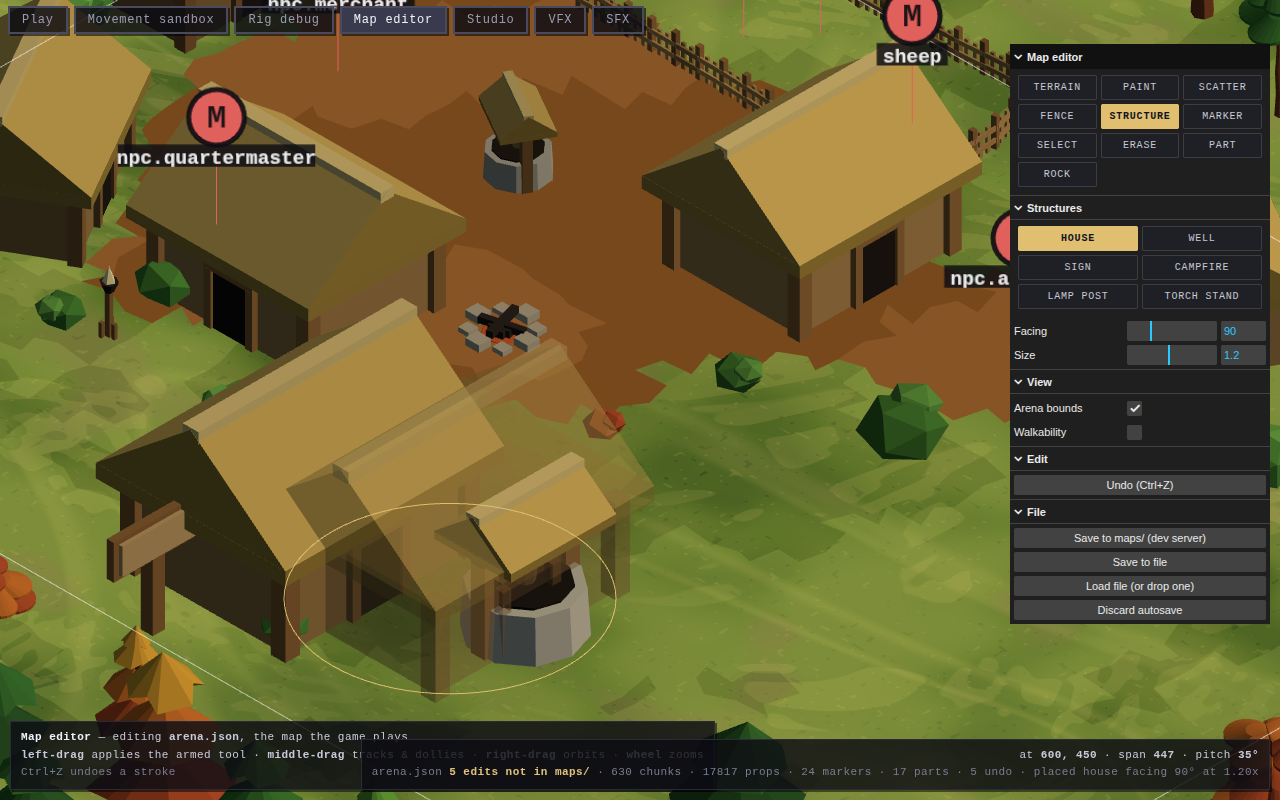
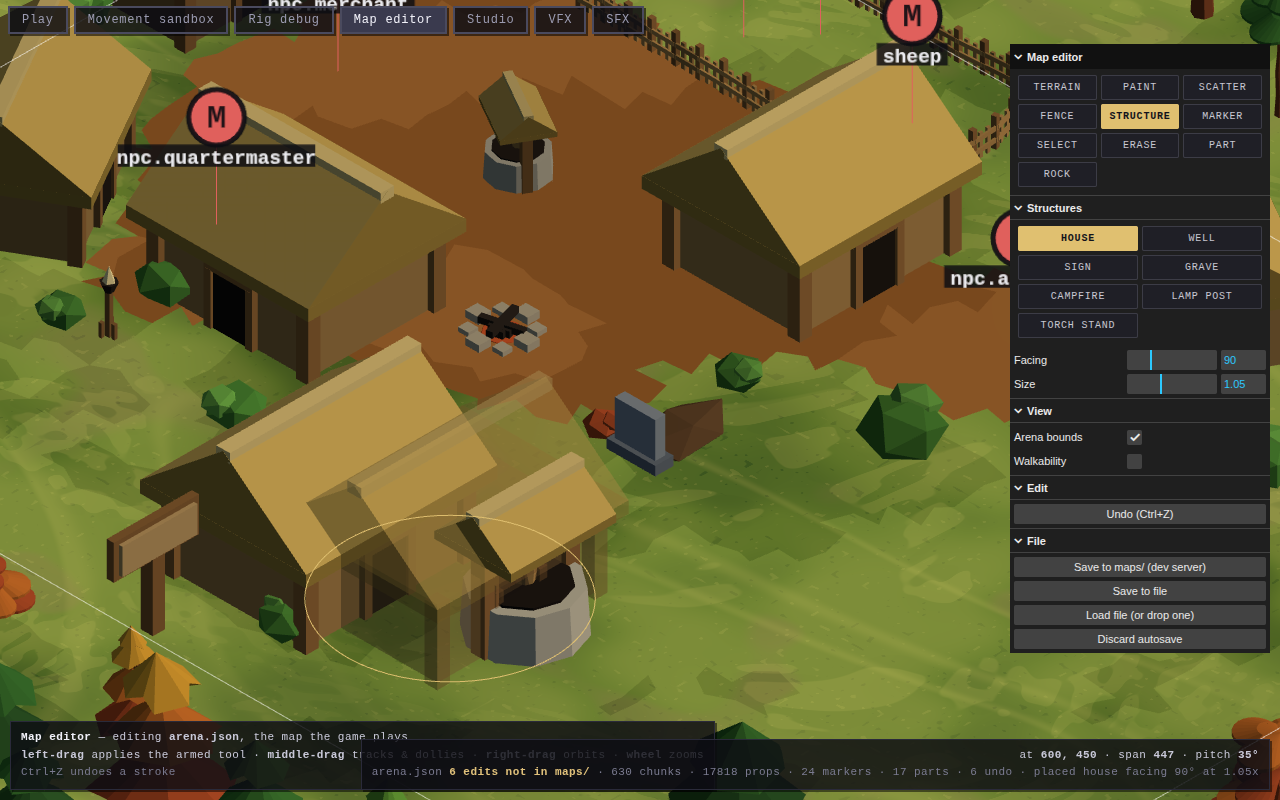
Photograph and probe the grave
The preview earned its place immediately: the mound was laid exactly against
the plinth, and rockGeometry knocks every vertex inward by up to half its
roughness, so it came out several units short and the grave read as two props
that happen to be near each other. Invisible in Node -- both parts were where
the arithmetic said -- and obvious in one picture. The overlap is the shrinkage
now, and the test that pins it fails when it is removed.

The probe is the half no headless test can reach, and the grave is worth a step
in it for the opposite reason to the sign's: it has nothing of its own, so
every part of being placeable is derived, and the whole feature is a button
nobody wrote and geometry nobody dispatched to. Both fail silently.

It also found its own instrument lying. `placed()` matched a hand-written
house|well|sign, so every grave check printed "said nothing" as its evidence --
which is exactly what a grave that had not been placed would print. A detail
line that reads the same whether the thing worked or not is worse than none,
because it is read as evidence. It derives from PLACED_KINDS now.

Claude-Session: https://claude.ai/code/session_017aM3sCe1q8LFaYau8D2HYu

diff --git a/scripts/probe-structures.ts b/scripts/probe-structures.ts
@@ -31,7 +31,7 @@ import { existsSync, mkdirSync, readFileSync } from 'node:fs';
 import { dirname, join } from 'node:path';
 import { fileURLToPath } from 'node:url';
 import { chromium, type Page } from 'playwright';
-import { STRUCTURE_KINDS } from '../src/terrain/vegetation.js';
+import { PLACED_KINDS, STRUCTURE_KINDS } from '../src/terrain/vegetation.js';
 import { STRUCTURE_SCALE_STEP } from '../src/render/iso3d/editor/structure.js';
 
 const root = join(dirname(fileURLToPath(import.meta.url)), '..');
@@ -274,9 +274,23 @@ async function setText(page: Page, folder: string, label: string, value: string)
   await page.waitForTimeout(250);
 }
 
+/**
+ * Which kinds the status line can be reporting a placement of.
+ *
+ * **Derived, never typed.** It was a hand-written `house|well|sign`, and spec
+ * 263's grave was the fourth kind and the first one to show what that costs: a
+ * grave really was placed, the assertion above really did pass, and every check
+ * about it printed `said nothing` as its evidence -- which is exactly what a
+ * grave that was *not* placed would have printed. A detail line that reads the
+ * same whether the thing worked or not is worse than none, because it is read as
+ * evidence. `PLACED_KINDS` rather than `STRUCTURE_KINDS`, since a fixture prints
+ * through this same line.
+ */
+const PLACED_PATTERN = new RegExp(`placed (?:${PLACED_KINDS.join('|')})[^]*$`);
+
 /** The last thing the editor's status line said it did. */
 async function placed(page: Page): Promise<string> {
-  return /placed (?:house|well|sign)[^]*$/.exec(await readout(page))?.[0]?.trim() ?? 'said nothing';
+  return PLACED_PATTERN.exec(await readout(page))?.[0]?.trim() ?? 'said nothing';
 }
 
 /** Whatever the status line is saying, which is the tail after the undo count. */
@@ -495,6 +509,25 @@ async function main(): Promise<void> {
       (await readout(page)).includes(SIGN_MESSAGE),
       await placed(page),
     );
+    // --- the grave (spec 263) ----------------------------------------------
+    //
+    // The kind with nothing of its own -- no message, no brightness, no reach --
+    // which is exactly why it is worth a step here: everything that makes it
+    // placeable is *derived* (`STRUCTURE_KINDS` composes `PLACED_KINDS`, which
+    // the panel's strip is built from), so the whole feature is a button nobody
+    // wrote and geometry nobody dispatched to. Both of those fail silently.
+    await page.getByRole('button', { name: 'grave', exact: true }).click();
+    await page.waitForTimeout(400);
+    check(
+      'arming a grave shows no message row, having nothing to say',
+      (await panelRow(page, 'Structures', 'Message'))?.shown !== true,
+      'Message hidden',
+    );
+    await setNumber(page, 'Structures', 'Facing', 180);
+    check('a grave places', await clickGround(page, 640, 440), await placed(page));
+    check('and says so, at the facing it was turned to', /placed grave facing 180/.test(await readout(page)), await placed(page));
+    await setNumber(page, 'Structures', 'Facing', 90);
+
     await page.getByRole('button', { name: 'well', exact: true }).click();
     await page.waitForTimeout(300);
     check(
@@ -609,6 +642,21 @@ async function main(): Promise<void> {
       'and nothing else in the map gained one',
       after.every((p) => p.species === 'sign' || p.text === undefined),
       after.filter((p) => p.species !== 'sign' && p.text !== undefined).map((p) => p.species).join(', ') || 'none',
+    );
+
+    // The grave: the file is where "a kind that is only a row in a list is
+    // really placeable" is answered (spec 263). Nothing about it is
+    // special-cased anywhere, so the way it fails is by not being there at all.
+    const graves = after.filter((p) => p.species === 'grave');
+    check(
+      'the saved map has the one grave this probe put down',
+      graves.length === 1,
+      `${graves.length} graves`,
+    );
+    check(
+      'and it was saved at the facing it was placed at',
+      Math.abs((graves[0]?.rotation ?? 0) - Math.PI) < 0.01,
+      `rotation = ${(graves[0]?.rotation ?? 0).toFixed(3)}`,
     );
 
     const turned = houses.filter((h) => Math.abs((h.rotation ?? 0) - Math.PI / 2) < 0.01);

diff --git a/scripts/preview-structures.ts b/scripts/preview-structures.ts
@@ -236,6 +236,25 @@ const signpost = (x: number, z: number, yawDeg: number, scale = 1): Prop => ({
 });
 
 /**
+ * A grave (spec 263).
+ *
+ * The one prop here whose whole risk is *scale*, in the opposite direction to
+ * the sign's: it has to be unmistakably shorter than a body and still be
+ * something you can see from the game's own bearing. So every shot of it carries
+ * a body block, and the row ends with a plot of several -- because a graveyard
+ * is the arrangement this prop exists for, and four markers in a row is where a
+ * mound that is too round or a stone that is too wide stops being arguable.
+ */
+const grave = (x: number, z: number, yawDeg: number, scale = 1): Prop => ({
+  kind: 'grave',
+  x,
+  y: z,
+  scale,
+  rotation: (yawDeg * Math.PI) / 180,
+  tint: (((x * 3 + z * 17) % 200) / 100) - 1,
+});
+
+/**
  * How far the huts stand from the well, in the village shots.
  *
  * Two and a half footprints, which leaves a square between them rather than a
@@ -259,6 +278,25 @@ const SHOTS: readonly Shot[] = [
   { label: 'sign facing 0', props: [signpost(0, 0, 0)], forward: VIEW_DIR, fit: 240 },
   { label: 'sign facing 90', props: [signpost(0, 0, 90)], forward: VIEW_DIR, fit: 240 },
   { label: 'sign facing 180', props: [signpost(0, 0, 180)], forward: VIEW_DIR, fit: 240 },
+
+  // A grave, beside a body and then in a row of them. Scale is the whole risk:
+  // this is the only prop in the list that is meant to be *shorter* than the
+  // person looking at it, so a block for comparison is not optional here.
+  { label: 'grave', props: [grave(0, 0, 0)], forward: VIEW_DIR, fit: 220, body: [70, 10] },
+  { label: 'grave, low', props: [grave(0, 0, 0)], forward: LOW_DIR, fit: 220, body: [70, 10] },
+  {
+    label: 'graveyard',
+    props: [
+      grave(-90, -30, 0),
+      grave(0, -20, 0, 1.15),
+      grave(90, -34, 0, 0.85),
+      grave(-45, 120, 0),
+      grave(55, 128, 0, 1.05),
+    ],
+    forward: VIEW_DIR,
+    fit: 470,
+    body: [-130, 90],
+  },
 
   { label: 'facing 0', props: [hut(0, 0, 0)], forward: VIEW_DIR, fit: 380 },
   { label: 'facing 90', props: [hut(0, 0, 90)], forward: VIEW_DIR, fit: 380 },

diff --git a/CLAUDE.md b/CLAUDE.md
@@ -86,8 +86,8 @@ change a game outcome.
 | `npx tsx scripts/probe-editor-ground.ts` | Whether the editor's ground window really meshes and evicts, in a browser (spec 212) |
 | `npx tsx scripts/probe-editor-props.ts` | Whether the editor's deferred prop field really puts the trees back (spec 211) |
 | `npx tsx scripts/bench-editor.ts` | What *opening the map editor* costs, stage by stage, across world sizes (spec 211). `bench-map.ts` measures the server; this measures the one caller that still wants the mesh |
-| `npx tsx scripts/preview-structures.ts` | Photograph the village props -- hut, well, and four of them round a square -- with a body-sized block for scale (spec 224) |
-| `npm run build && npx tsx scripts/probe-structures.ts` | Place a hut, a well and a sign in the real editor and read them back out of the saved file (specs 224, 260). The sign is the one placed kind with a field of its own, so it is the one whose panel row can be shown for the wrong kind or wired to nothing -- and neither failure is visible in a screenshot, because a board placed with an empty message looks exactly like one placed with the right message |
+| `npx tsx scripts/preview-structures.ts` | Photograph the village props -- hut, well, and four of them round a square -- with a body-sized block for scale (spec 224), plus a grave and a row of them (spec 263). The grave is the one prop here whose risk runs *opposite* to the sign's: it has to be unmistakably shorter than the person looking at it and still read from the game's own bearing, so the block it is drawn beside is the measurement rather than a courtesy |
+| `npm run build && npx tsx scripts/probe-structures.ts` | Place a hut, a well, a sign and a grave in the real editor and read them back out of the saved file (specs 224, 260, 263). The sign is the one placed kind with a field of its own, so it is the one whose panel row can be shown for the wrong kind or wired to nothing -- and neither failure is visible in a screenshot, because a board placed with an empty message looks exactly like one placed with the right message. The grave is the opposite case and earns a step for it: it has **nothing** of its own, so every part of being placeable is derived, and the whole feature is a button nobody wrote and geometry nobody dispatched to -- both silent. It is also why `placed()` derives its pattern from `PLACED_KINDS` instead of listing the kinds: written by hand it printed `said nothing` for a grave that really had been placed, which is exactly what one that had **not** been placed prints |
 | `npm run build && npx tsx scripts/probe-sign.ts` | Whether a sign on the map is marked, walked to, read and closed in the shipped page (spec 260). **It puts the sign there itself**, backing up `maps/arena/` and restoring it -- there is none on the shipped map, and a probe that needed somebody to have placed one first is a probe nobody runs. Written before the game server starts, because with `?server=` the client's terrain comes off the wire, so what the page draws is whatever that process read from disk. The sign is found with the cursor (`data-crosshair` reading `sign` is the game's own answer to "that is something you can read"), and the **walk is measured** rather than assumed: `SIGN_READ_RADIUS` is under a hundred units, so a run that opened the bubble without moving has not seen the order at all and would go on passing after it was removed |
 | `npx tsx scripts/preview-fixtures.ts` | Photograph the three light fixtures **and what they light** (spec 250). The rasteriser has three's own `getDistanceAttenuation` in it, so the pool on the ground is the one the game throws -- and it prints the number a picture is bad at: the ground is not facing the light, so what a designer sets is scaled by the grazing angle, and the three read out to 41-47% of their reach at night against 29-30% by day |
 | `npx tsx scripts/probe-world-lights.ts` | Whether the fixtures on the shipped map are actually lit in the Play tab (spec 250). Reads `data-world-lights`, whose `lit=` is the **pool's own held slots** -- so one refused or dropped reads as absent -- against an `offered=` this script checks against the map file it read itself |
@@ -428,6 +428,36 @@ src/terrain/     pure, deterministic world data: heightfields, materials, chunks
                  to hand-edit: `maps/arena.json` is committed so the world
                  reviews as a diff, and a sentence is the one thing in a prop
                  record that reads as a sentence rather than a coordinate.
+                 Since spec 263 there is a **grave** beside it -- a grey
+                 headstone on a plinth over a mound of turned earth -- and it is
+                 the first member of that list that is not something a village
+                 *built*, which changes nothing about how it is placed and is the
+                 point: it passes the same membership test, going in one spot
+                 somebody chose and turned to face the path it is walked up to
+                 from, so a graveyard is a layout rather than a distribution.
+                 Two things about it are decisions rather than defaults.
+                 `GRAVE_PLAN.stoneHeight` is **44 against a body's 56**, and
+                 that bound is the design: a marker taller than the person
+                 reading it stops being a grave and becomes a monument, which is
+                 a different prop with a different reason to exist. And the
+                 collider is the **headstone and only the headstone**, which is
+                 the sign's rule applied to the other half of an object -- a
+                 mound is loose earth a stride high, and a circle wide enough to
+                 cover the plot would take a body and a half of walkable ground
+                 out of the world around every grave, which in a graveyard is
+                 most of the graveyard. Its three palette tones are new rather
+                 than borrowed for one stated reason: every stone in that palette
+                 is deliberately *warm* limestone, tuned so a wall belongs to the
+                 ground it stands on, and a grave marker is the one piece of
+                 stonework here that has to read as cold against it.
+                 The mound runs *into* the plinth rather than up to it, because
+                 `rockGeometry` knocks every vertex inward by up to half its
+                 roughness -- so earth laid exactly against the base comes out
+                 several units short of it, and a grave with daylight between the
+                 stone and the soil reads as two props that happen to be near
+                 each other. Found by looking at `preview-structures.ts`'s sheet
+                 and pinned by the test that now fails when the overlap is
+                 removed.
                  Since spec 250 it also holds the **light fixtures**: a campfire,
                  a street lamp on a stake, and a standing torch. The same
                  argument one system further along -- a fixture is written into
